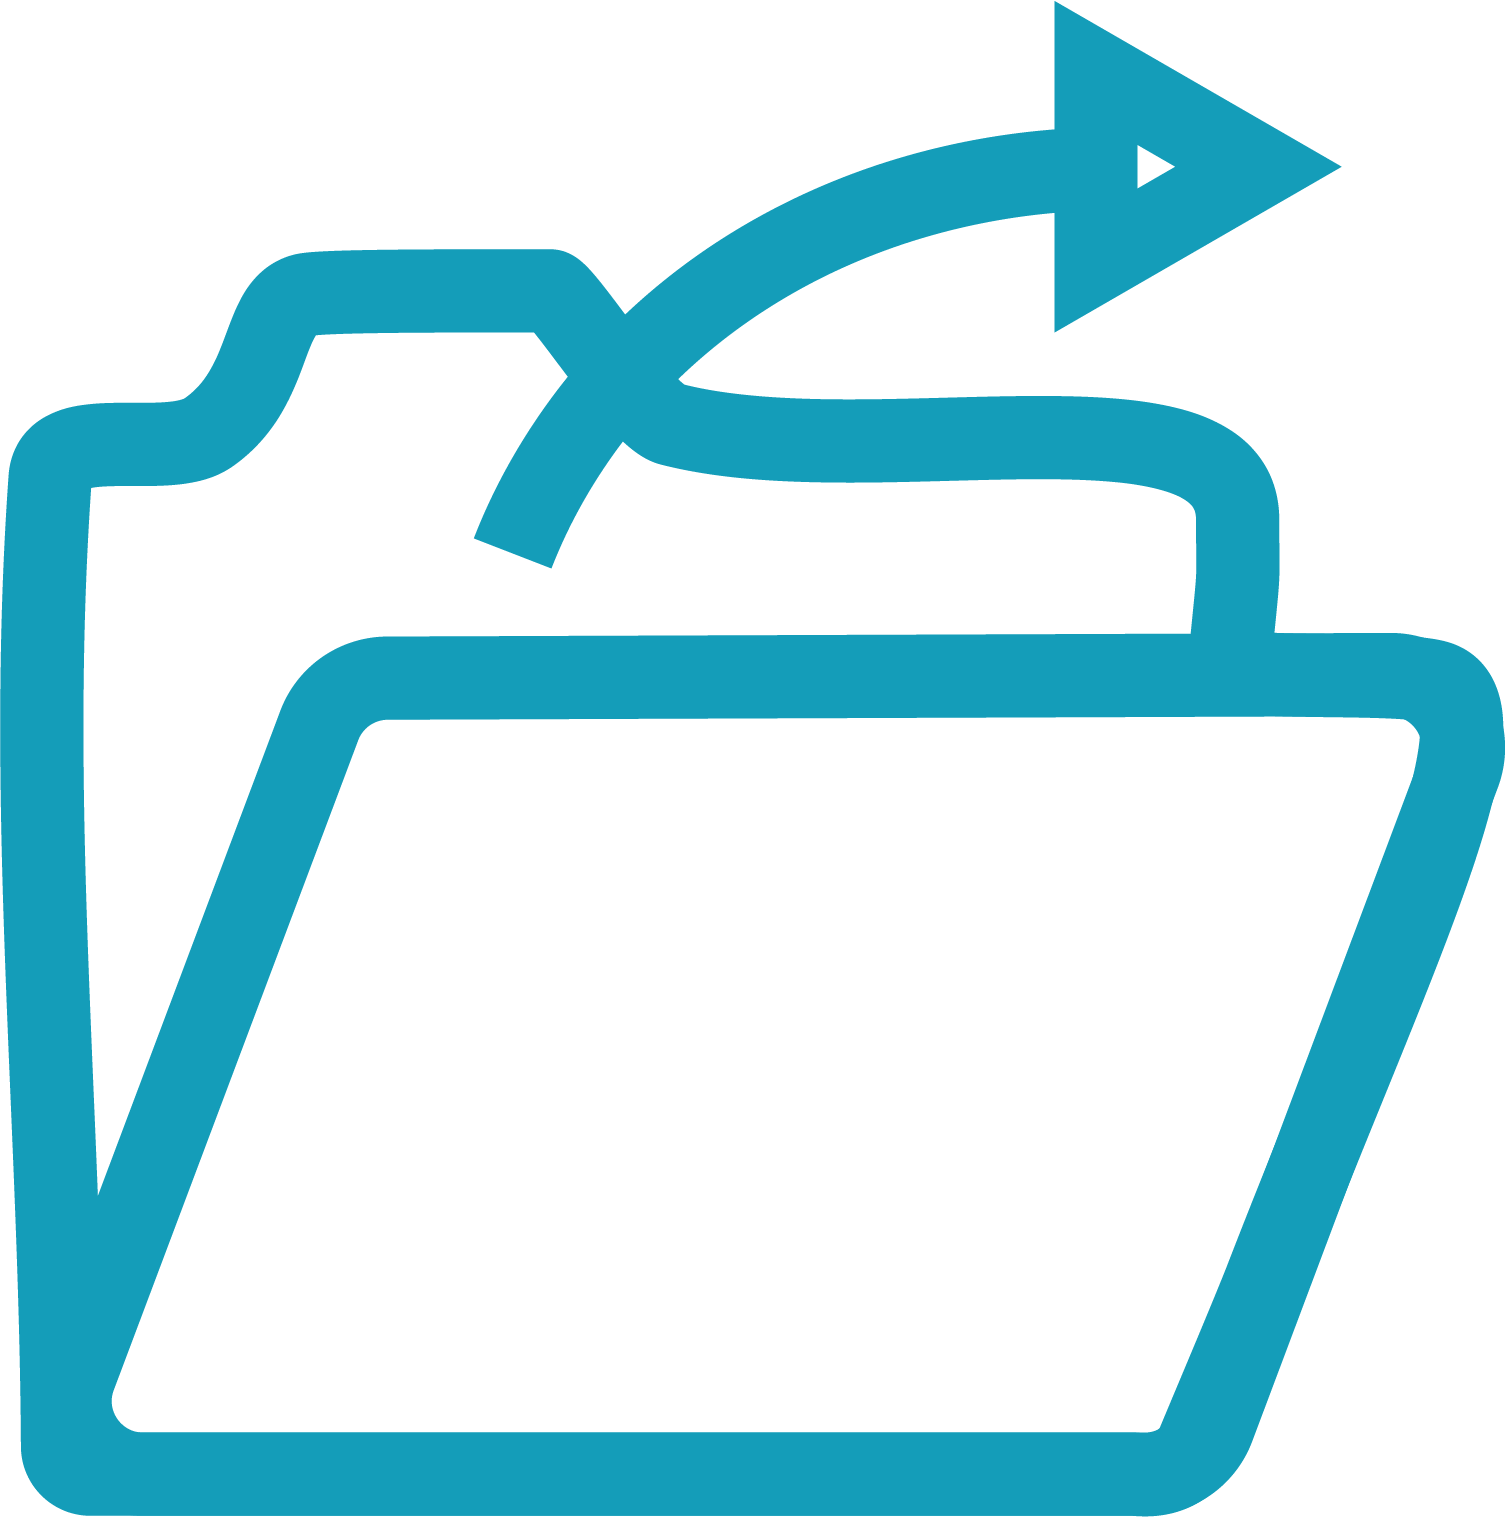
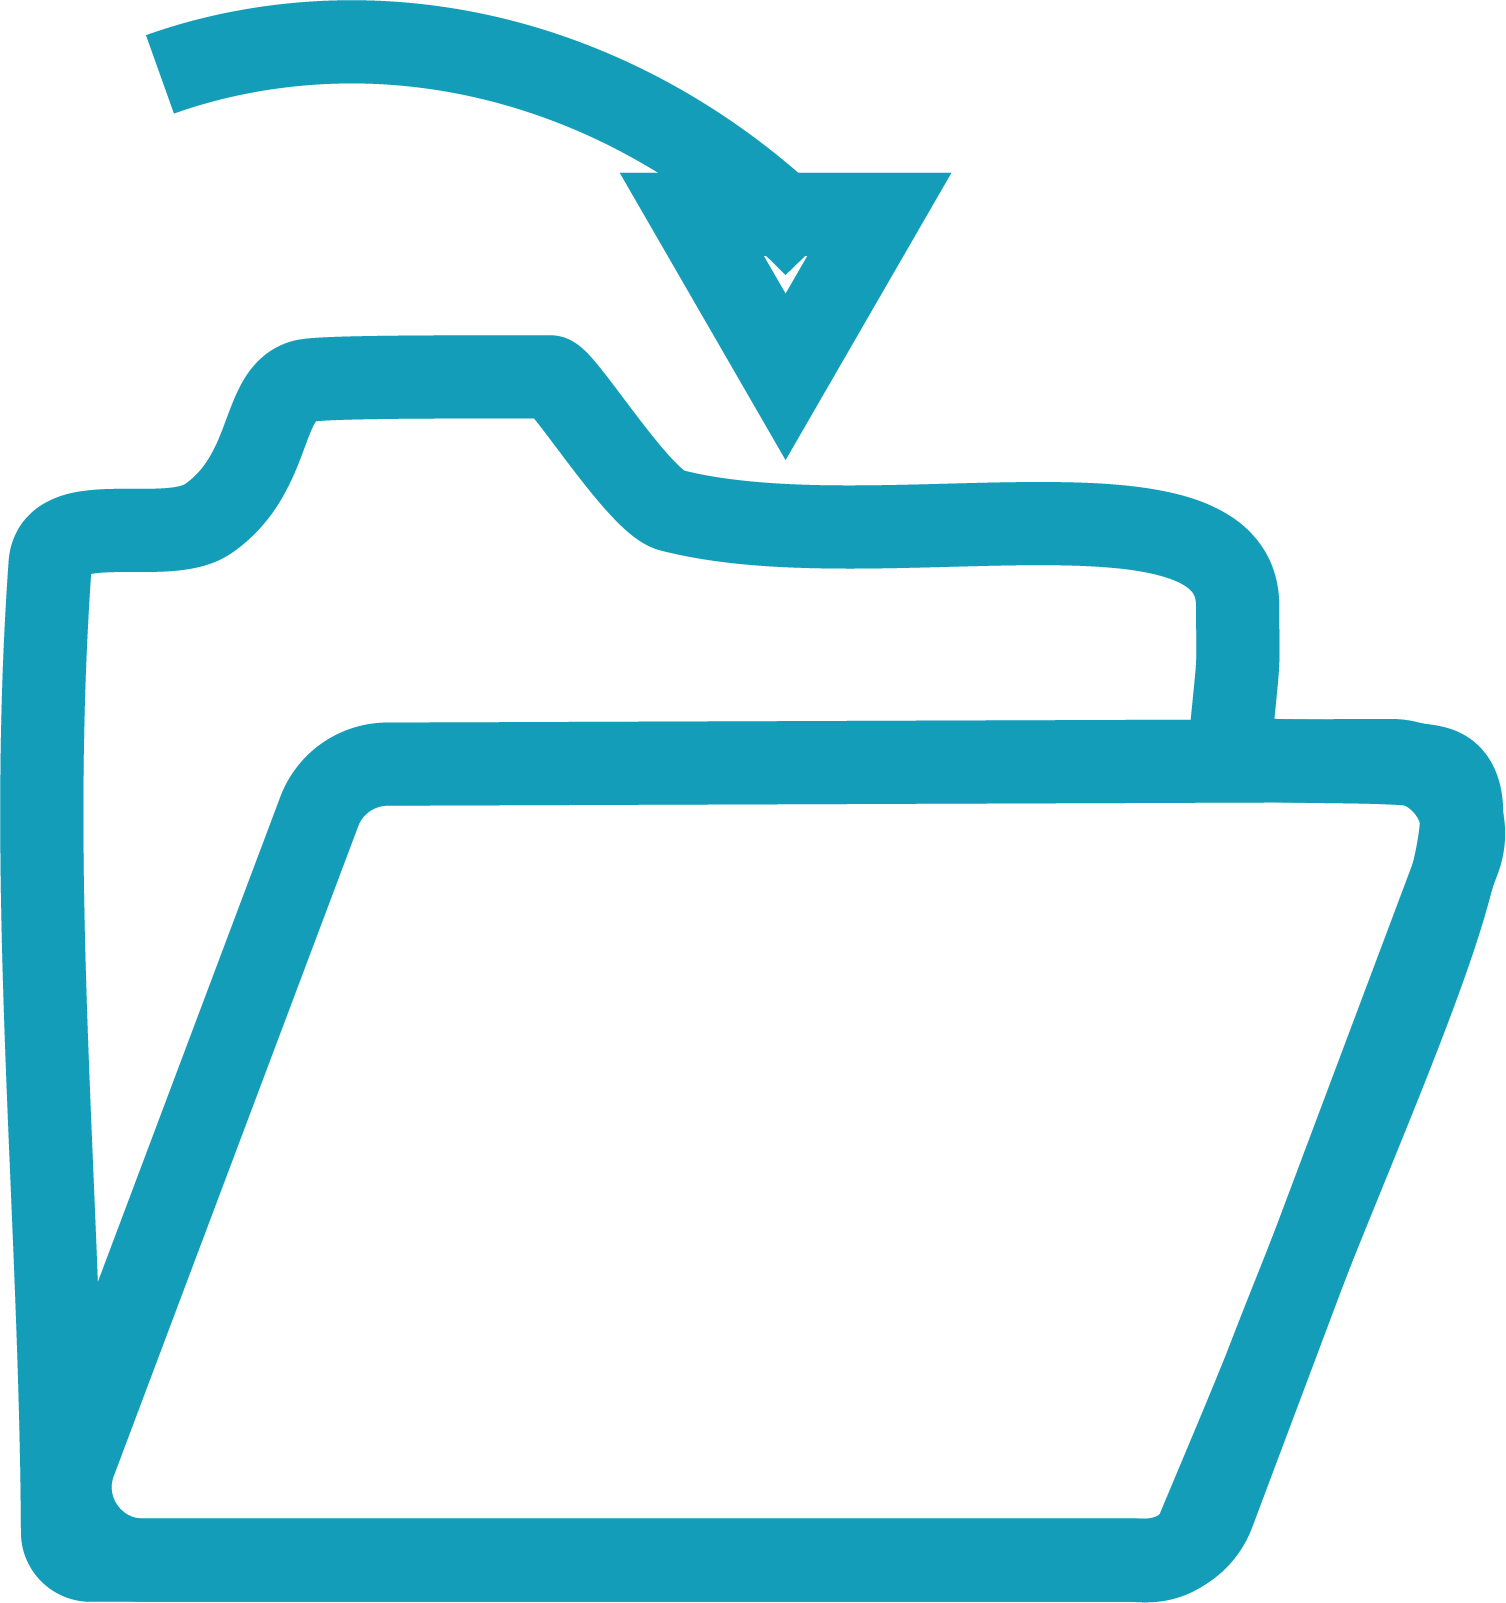
adding activate img to archive pages

diff --git a/app/Lagerstyring/lade.php b/app/Lagerstyring/lade.php
@@ -165,7 +165,7 @@
                         {
                             if(findes($id, $conn)) //sætter manuelt alle knapper til deres modsatte værdi
                             {
-                                $_SESSION["bilTilDelete"] = $id;
+                                $_SESSION["selected_element"] = $id;
                                 $display_delete_storage_pop_up = "flex";
                             }
                         }
@@ -173,7 +173,7 @@
                     // Execute - confirm delete
                     if($_REQUEST['knap'] == "Slet")
                     {
-                        $id = $_SESSION["bilTilDelete"];
+                        $id = $_SESSION["selected_element"];
                         $sql = $conn->prepare("delete from storage where id = ?");
                         $sql->bind_param("i", $id);
                         $sql->execute();

diff --git a/app/Opgaver/arkiverede-opgaver.php b/app/Opgaver/arkiverede-opgaver.php
@@ -172,7 +172,7 @@
                                 echo '</div>';
                                 
                                 echo '<div class="button_container">';
-                                    echo '<button type="submit" name="knap" value="activate_' . $row['id'] . '"><img src="../img/person-login.png" alt="Employee icon" class="edit_icons"<button>';
+                                    echo '<button type="submit" name="knap" value="activate_' . $row['id'] . '"><img src="../img/activate.png" alt="Employee icon" class="edit_icons"<button>';
                                 echo '</div>';
                             echo '</div>'; 
                         }   

diff --git a/app/Sagsstyring/arkiverede-sager.php b/app/Sagsstyring/arkiverede-sager.php
@@ -173,7 +173,7 @@
                                 echo '</div>';
                                 
                                 echo '<div class="button_container">';
-                                    echo '<button type="submit" name="knap" value="activate_' . $row['id'] . '"><img src="../img/person-login.png" alt="Employee icon" class="edit_icons"<button>';
+                                    echo '<button type="submit" name="knap" value="activate_' . $row['id'] . '"><img src="../img/activate.png" alt="Employee icon" class="edit_icons"<button>';
                                 echo '</div>';
                             echo '</div>'; 
                         }   
